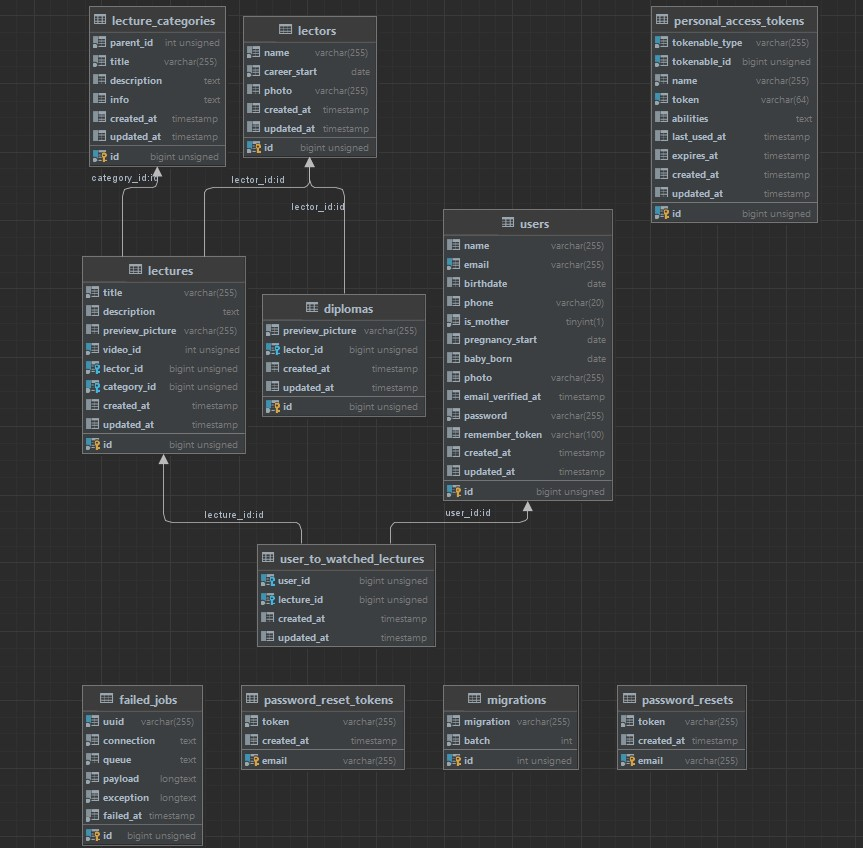
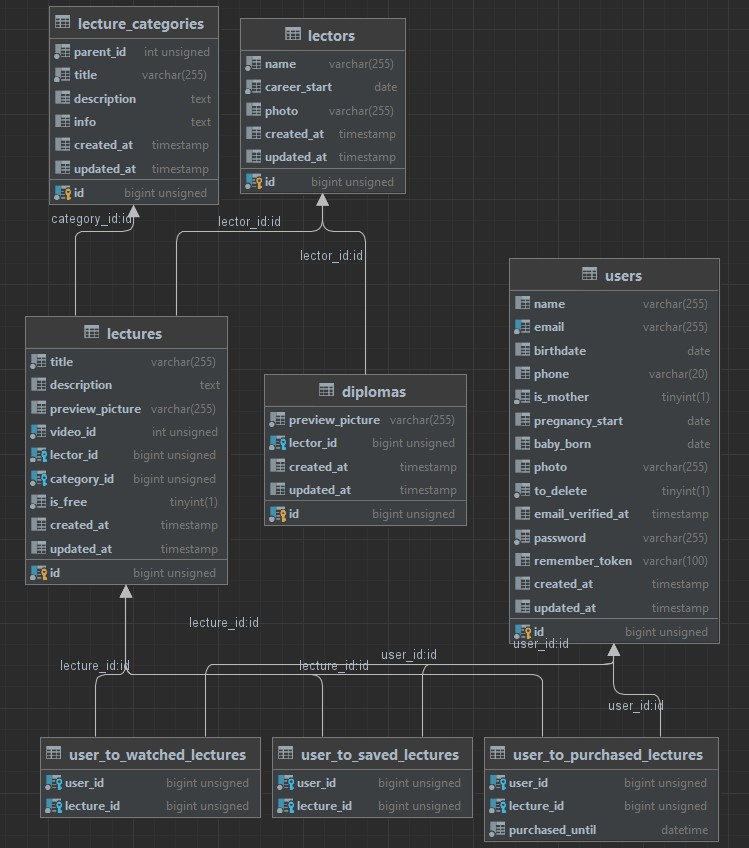
Change uml-diagram pic, add primary keys in user-to-lecture tables

Changed region(s): [[0.0307, 0.2453, 0.9519, 1.0], [0.0614, 0.0, 0.5527, 0.3066], [0.737, 0.0, 0.9519, 0.2759]]

diff --git a/database/migrations/2023_02_21_072705_create_user_to_purchased_lectures_table.php b/database/migrations/2023_02_21_072705_create_user_to_purchased_lectures_table.php
@@ -12,6 +12,8 @@ return new class extends Migration
     public function up(): void
     {
         Schema::create('user_to_purchased_lectures', function (Blueprint $table) {
+            $table->primary(['user_id', 'lecture_id']);
+
             $table->bigInteger('user_id')->unsigned();
             $table->bigInteger('lecture_id')->unsigned();
             $table->dateTime('purchased_until');

diff --git a/database/migrations/2023_02_21_104310_create_user_to_saved_lectures_table.php b/database/migrations/2023_02_21_104310_create_user_to_saved_lectures_table.php
@@ -12,6 +12,8 @@ return new class extends Migration
     public function up(): void
     {
         Schema::create('user_to_saved_lectures', function (Blueprint $table) {
+            $table->primary(['user_id', 'lecture_id']);
+
             $table->bigInteger('user_id')->unsigned();
             $table->bigInteger('lecture_id')->unsigned();
 

diff --git a/database/migrations/2023_02_14_091019_create_user_to_watched_lectures_table.php b/database/migrations/2023_02_14_091019_create_user_to_watched_lectures_table.php
@@ -14,6 +14,7 @@ return new class extends Migration
     public function up()
     {
         Schema::create('user_to_watched_lectures', function (Blueprint $table) {
+            $table->primary(['user_id', 'lecture_id']);
             $table->bigInteger('user_id')->unsigned();
             $table->bigInteger('lecture_id')->unsigned();
 
